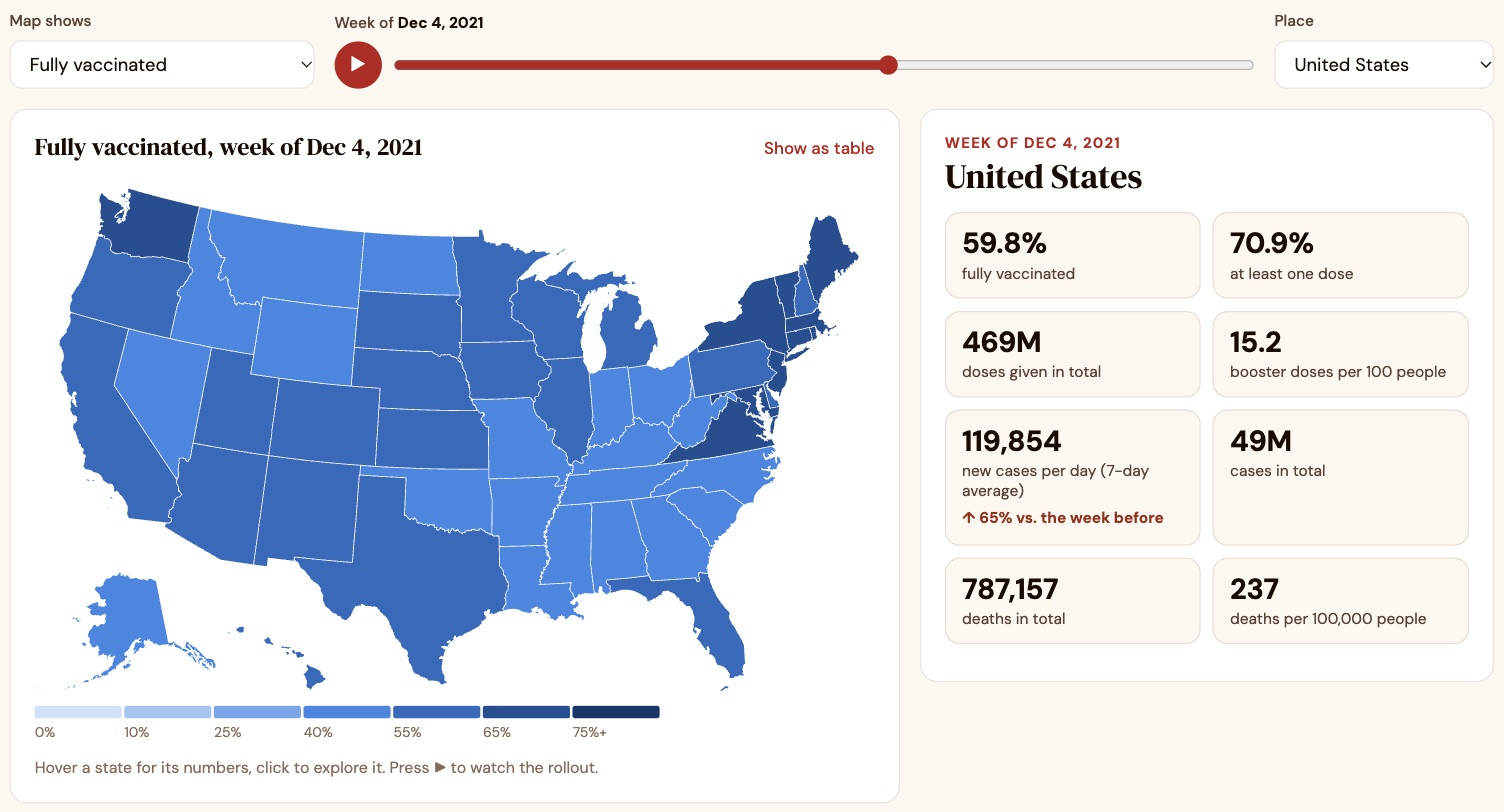
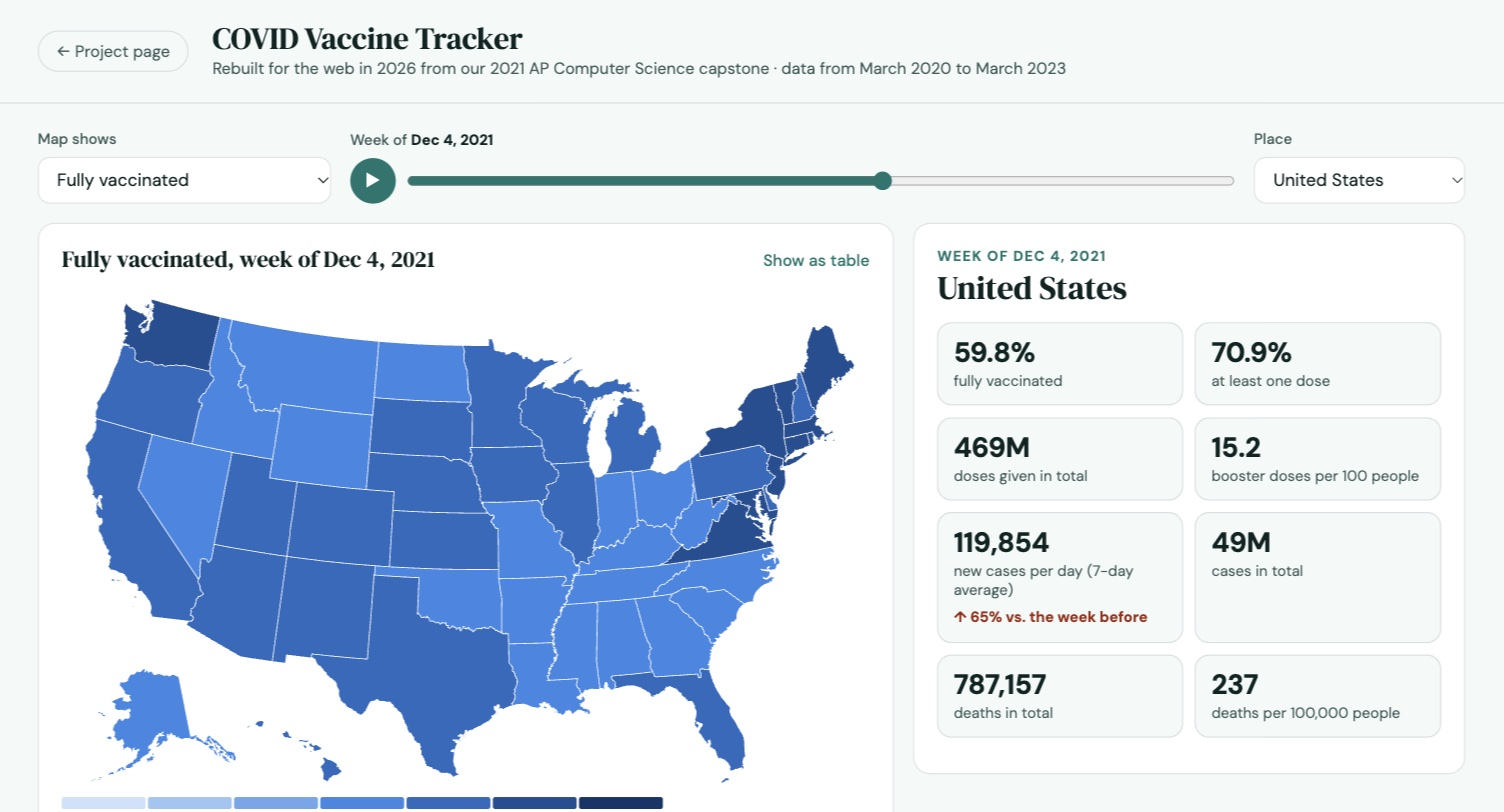
Public-health teal theme that follows the device's light or dark mode
The project page and the dashboard are dark by default and switch to a
light version when the device is set to light mode. Every color is a
token; nav, footer, bands, shadows and theme-color follow the mode.

Dashboard charts get their own validated steps per mode: the line
series use categorical slots 1 and 2 (dark steps on the dark surface),
and the map ramps are defined in CSS so low values recede toward each
mode's surface. The project page preview image is recaptured in both
modes and swaps with the device setting.

diff --git a/index.html b/index.html
@@ -3,24 +3,63 @@
 <head>
 <meta charset="UTF-8" />
 <meta name="viewport" content="width=device-width, initial-scale=1.0"/>
+<meta name="theme-color" content="#0A1716" media="(prefers-color-scheme: dark)"/>
+<meta name="theme-color" content="#F4FAF9" media="(prefers-color-scheme: light)"/>
 <title>COVID Vaccine Tracker - Roopa Srinivas</title>
 <meta name="description" content="An interactive map of COVID-19 vaccinations, cases and deaths by US state, 2020–2023. An AP Computer Science capstone from 2021, rebuilt for the web."/>
 <link href="https://fonts.googleapis.com/css2?family=DM+Serif+Display:ital@0;1&family=DM+Sans:wght@300;400;500&display=swap" rel="stylesheet"/>
 <style>
 *, *::before, *::after { box-sizing: border-box; margin: 0; padding: 0; }
+/* Public-health teal. Dark by default; light for devices set to light mode. */
 :root {
-  --bg: #FDF8F0;
-  --surface: #FFFFFF;
-  --surface2: #F5EDE0;
-  --ink: #1A0A00;
-  --ink2: #5C4033;
-  --ink3: #9A7060;
-  --accent: #B91C1C;
-  --accent-dark: #7F1212;
-  --accent-light: #FAE7E7;
-  --border: rgba(90,20,10,0.12);
+  color-scheme: dark;
+  --bg: #0A1716;
+  --surface: #10211F;
+  --surface2: #152A27;
+  --ink: #E6F4F2;
+  --ink2: #A9C6C2;
+  --ink3: #7E9C98;
+  --accent: #2EC4B6;
+  --accent-hover: #5FD8CB;
+  --on-accent: #032420;
+  --accent-soft: rgba(46,196,182,0.16);
+  --accent-line: rgba(46,196,182,0.45);
+  --second: #F4A261;
+  --border: rgba(230,244,242,0.12);
+  --nav-bg: rgba(10,23,22,0.92);
+  --band: #0F3F3A;
+  --deep: #061110;
+  --on-deep: #E6F4F2;
+  --on-deep2: rgba(230,244,242,0.62);
+  --on-deep3: rgba(230,244,242,0.4);
+  --deep-em: #5EEAD4;
+  --deep-glow: rgba(255,255,255,0.05);
+  --deep-line: rgba(255,255,255,0.1);
+  --shadow: rgba(0,0,0,0.5);
   --serif: 'DM Serif Display', Georgia, serif;
   --sans: 'DM Sans', system-ui, sans-serif;
+}
+@media (prefers-color-scheme: light) {
+  :root {
+    color-scheme: light;
+    --bg: #F4FAF9;
+    --surface: #FFFFFF;
+    --surface2: #E8F3F1;
+    --ink: #0B2522;
+    --ink2: #3D5C58;
+    --ink3: #587470;
+    --accent: #0F766E;
+    --accent-hover: #115E59;
+    --on-accent: #FFFFFF;
+    --accent-soft: #D7EEEB;
+    --accent-line: rgba(15,118,110,0.35);
+    --second: #C2410C;
+    --border: rgba(11,37,34,0.12);
+    --nav-bg: rgba(244,250,249,0.93);
+    --band: #0F766E;
+    --deep: #0B2522;
+    --shadow: rgba(11,37,34,0.28);
+  }
 }
 html { scroll-behavior: smooth; }
 body { font-family: var(--sans); background: var(--bg); color: var(--ink); font-size: 16px; line-height: 1.7; }
@@ -29,7 +68,7 @@ nav {
   position: fixed; top: 0; left: 0; right: 0; z-index: 100;
   display: flex; align-items: center; justify-content: space-between;
   padding: 1.25rem 3rem;
-  background: rgba(253,248,240,0.93);
+  background: var(--nav-bg);
   backdrop-filter: blur(8px);
   border-bottom: 1px solid var(--border);
 }
@@ -42,7 +81,7 @@ section { padding: 7rem 0; }
 .container { max-width: 900px; margin: 0 auto; padding: 0 2rem; }
 
 #hero { min-height: 100vh; display: flex; align-items: center; padding-top: 5rem; background: var(--bg); position: relative; overflow: hidden; }
-#hero::before { content: ''; position: absolute; top: -120px; right: -120px; width: 520px; height: 520px; border-radius: 50%; background: var(--accent-light); opacity: 0.6; pointer-events: none; }
+#hero::before { content: ''; position: absolute; top: -120px; right: -120px; width: 520px; height: 520px; border-radius: 50%; background: var(--accent-soft); opacity: 0.6; pointer-events: none; }
 
 .hero-eyebrow { font-size: 0.8rem; font-weight: 500; letter-spacing: 0.12em; text-transform: uppercase; color: var(--ink3); margin-bottom: 1.25rem; }
 .hero-name { font-family: var(--serif); font-size: clamp(2.5rem, 7vw, 5rem); line-height: 1.05; color: var(--ink); margin-bottom: 1.5rem; }
@@ -52,8 +91,8 @@ section { padding: 7rem 0; }
 
 
 .btn { display: inline-flex; align-items: center; gap: 0.4rem; padding: 0.7rem 1.6rem; border-radius: 100px; font-size: 0.875rem; font-weight: 500; letter-spacing: 0.04em; text-transform: uppercase; text-decoration: none; transition: all 0.2s; cursor: pointer; }
-.btn-primary { background: var(--accent); color: #fff; border: 1.5px solid var(--accent); }
-.btn-primary:hover { background: var(--accent-dark); border-color: var(--accent-dark); }
+.btn-primary { background: var(--accent); color: var(--on-accent); border: 1.5px solid var(--accent); }
+.btn-primary:hover { background: var(--accent-hover); border-color: var(--accent-hover); }
 .btn-outline { background: transparent; color: var(--ink); border: 1.5px solid var(--border); }
 .btn-outline:hover { border-color: var(--ink2); color: var(--accent); }
 
@@ -62,10 +101,10 @@ section { padding: 7rem 0; }
 .section-title em { font-style: italic; color: var(--accent); }
 
 /* STATS */
-.stats-strip { background: var(--accent); padding: 2.5rem 3rem; display: flex; justify-content: center; gap: 5rem; flex-wrap: wrap; }
+.stats-strip { background: var(--band); padding: 2.5rem 3rem; display: flex; justify-content: center; gap: 5rem; flex-wrap: wrap; }
 .stat { text-align: center; }
-.stat-num { font-family: var(--serif); font-size: 2.4rem; color: #fff; line-height: 1; margin-bottom: 0.3rem; }
-.stat-label { font-size: 0.75rem; color: rgba(255,255,255,0.75); letter-spacing: 0.06em; text-transform: uppercase; }
+.stat-num { font-family: var(--serif); font-size: 2.4rem; color: var(--on-deep); line-height: 1; margin-bottom: 0.3rem; }
+.stat-label { font-size: 0.75rem; color: var(--on-deep2); letter-spacing: 0.06em; text-transform: uppercase; }
 
 /* FEATURES */
 #features { background: var(--surface); }
@@ -77,38 +116,38 @@ section { padding: 7rem 0; }
 .feature-desc { font-size: 0.875rem; color: var(--ink2); font-weight: 300; line-height: 1.7; }
 
 /* HOW */
-#how { background: var(--accent); position: relative; overflow: hidden; }
-#how::before { content: ''; position: absolute; top: -30%; right: -10%; width: 50vw; height: 50vw; border-radius: 50%; background: rgba(255,255,255,0.06); pointer-events: none; }
-#how .section-label { color: rgba(255,255,255,0.7); }
-#how .section-title { color: #fff; }
-#how .section-title em { color: #FCA5A5; }
+#how { background: var(--band); position: relative; overflow: hidden; }
+#how::before { content: ''; position: absolute; top: -30%; right: -10%; width: 50vw; height: 50vw; border-radius: 50%; background: var(--deep-glow); pointer-events: none; }
+#how .section-label { color: var(--on-deep2); }
+#how .section-title { color: var(--on-deep); }
+#how .section-title em { color: var(--deep-em); }
 .steps { display: grid; grid-template-columns: repeat(4, 1fr); gap: 2rem; position: relative; z-index: 1; }
-.step-num { font-family: var(--serif); font-size: 3rem; color: rgba(255,255,255,0.15); line-height: 1; margin-bottom: 0.75rem; }
-.step-title { font-size: 1rem; font-weight: 500; color: #fff; margin-bottom: 0.5rem; }
-.step-desc { font-size: 0.875rem; font-weight: 300; color: rgba(255,255,255,0.65); line-height: 1.7; }
+.step-num { font-family: var(--serif); font-size: 3rem; color: var(--on-deep3); line-height: 1; margin-bottom: 0.75rem; }
+.step-title { font-size: 1rem; font-weight: 500; color: var(--on-deep); margin-bottom: 0.5rem; }
+.step-desc { font-size: 0.875rem; font-weight: 300; color: var(--on-deep2); line-height: 1.7; }
 
 /* TECH */
 #tech { background: var(--surface2); }
 .tech-grid { display: flex; flex-wrap: wrap; gap: 0.75rem; margin-top: 0.5rem; }
 .tech-pill { display: inline-flex; align-items: center; gap: 0.5rem; padding: 0.5rem 1.1rem; background: var(--surface); border: 1px solid var(--border); border-radius: 100px; font-size: 0.85rem; color: var(--ink2); transition: border-color 0.2s, background 0.2s; }
-.tech-pill:hover { border-color: var(--accent); background: var(--accent-light); color: var(--accent); }
+.tech-pill:hover { border-color: var(--accent); background: var(--accent-soft); color: var(--accent); }
 
 /* DEMO */
-#demo { background: var(--ink); position: relative; overflow: hidden; }
-#demo::before { content: ''; position: absolute; bottom: -20%; left: -10%; width: 45vw; height: 45vw; border-radius: 50%; background: rgba(185,28,28,0.15); pointer-events: none; }
+#demo { background: var(--deep); position: relative; overflow: hidden; }
+#demo::before { content: ''; position: absolute; bottom: -20%; left: -10%; width: 45vw; height: 45vw; border-radius: 50%; background: var(--accent-soft); pointer-events: none; }
 .demo-inner { position: relative; z-index: 1; }
-#demo .section-label { color: #FCA5A5; }
-#demo .section-title { color: #fff; }
-#demo .section-title em { color: #FCA5A5; }
-#demo .section-sub { font-size: 0.95rem; font-weight: 300; color: rgba(255,255,255,0.55); max-width: 520px; line-height: 1.8; margin-bottom: 2.5rem; }
-.demo-link { display: inline-block; background: var(--accent); color: #fff; padding: 0.7rem 1.6rem; border-radius: 100px; text-decoration: none; font-size: 0.875rem; font-weight: 500; letter-spacing: 0.04em; text-transform: uppercase; transition: background 0.2s; margin-bottom: 3rem; }
-.demo-link:hover { background: var(--accent-dark); }
+#demo .section-label { color: var(--deep-em); }
+#demo .section-title { color: var(--on-deep); }
+#demo .section-title em { color: var(--deep-em); }
+#demo .section-sub { font-size: 0.95rem; font-weight: 300; color: var(--on-deep2); max-width: 520px; line-height: 1.8; margin-bottom: 2.5rem; }
+.demo-link { display: inline-block; background: var(--accent); color: var(--on-accent); padding: 0.7rem 1.6rem; border-radius: 100px; text-decoration: none; font-size: 0.875rem; font-weight: 500; letter-spacing: 0.04em; text-transform: uppercase; transition: background 0.2s; margin-bottom: 3rem; }
+.demo-link:hover { background: var(--accent-hover); }
 .demo-steps { display: grid; grid-template-columns: repeat(auto-fit, minmax(200px, 1fr)); gap: 1.2rem; }
-.demo-step { background: rgba(255,255,255,0.05); border: 1px solid rgba(255,255,255,0.1); border-radius: 2px; padding: 1.4rem; transition: border-color 0.2s; }
-.demo-step:hover { border-color: rgba(185,28,28,0.5); }
-.demo-step-num { background: var(--accent); color: #fff; width: 26px; height: 26px; border-radius: 50%; display: flex; align-items: center; justify-content: center; font-size: 0.75rem; font-weight: 500; margin-bottom: 0.8rem; }
-.demo-step h4 { font-size: 0.9rem; font-weight: 500; color: #fff; margin-bottom: 0.35rem; }
-.demo-step p { font-size: 0.82rem; color: rgba(255,255,255,0.55); line-height: 1.6; font-weight: 300; }
+.demo-step { background: var(--deep-glow); border: 1px solid var(--deep-line); border-radius: 2px; padding: 1.4rem; transition: border-color 0.2s; }
+.demo-step:hover { border-color: var(--deep-em); }
+.demo-step-num { background: var(--accent); color: var(--on-accent); width: 26px; height: 26px; border-radius: 50%; display: flex; align-items: center; justify-content: center; font-size: 0.75rem; font-weight: 500; margin-bottom: 0.8rem; }
+.demo-step h4 { font-size: 0.9rem; font-weight: 500; color: var(--on-deep); margin-bottom: 0.35rem; }
+.demo-step p { font-size: 0.82rem; color: var(--on-deep2); line-height: 1.6; font-weight: 300; }
 
 /* GALLERY */
 #gallery { background: var(--surface); }
@@ -124,9 +163,9 @@ section { padding: 7rem 0; }
 #cta p { color: var(--ink2); max-width: 480px; margin: 0 auto 2.5rem; font-weight: 300; line-height: 1.8; }
 .cta-buttons { display: flex; justify-content: center; gap: 1rem; flex-wrap: wrap; }
 
-footer { background: var(--ink); border-top: 1px solid rgba(255,255,255,0.06); text-align: center; padding: 1.5rem; font-size: 0.8rem; color: rgba(255,255,255,0.35); }
-footer a { color: rgba(255,255,255,0.5); text-decoration: none; }
-footer a:hover { color: #FCA5A5; }
+footer { background: var(--deep); border-top: 1px solid var(--deep-line); text-align: center; padding: 1.5rem; font-size: 0.8rem; color: var(--on-deep2); }
+footer a { color: var(--on-deep); text-decoration: none; }
+footer a:hover { color: var(--deep-em); }
 
 @media (max-width: 700px) {
   nav { padding: 1rem 1.5rem; }
@@ -151,15 +190,15 @@ footer a:hover { color: #FCA5A5; }
   .nav-links { display: none; }
 }
 /* Rebuild additions: dashboard preview, then-and-now, team. */
-.hero-shot { display: block; margin-top: 3rem; border-radius: 14px; overflow: hidden; border: 1px solid var(--border); box-shadow: 0 30px 60px -24px rgba(90,20,10,0.35); transition: transform 0.25s; }
+.hero-shot { display: block; margin-top: 3rem; border-radius: 14px; overflow: hidden; border: 1px solid var(--border); box-shadow: 0 30px 60px -24px var(--shadow); transition: transform 0.25s; }
 .hero-shot:hover { transform: translateY(-3px); }
 .hero-shot img { display: block; width: 100%; height: auto; }
 .section-sub { color: var(--ink2); max-width: 620px; margin: -1.5rem 0 2rem; }
-code { font-size: 0.85em; background: var(--surface2); padding: 0.05rem 0.35rem; border-radius: 4px; }
+code { font-size: 0.85em; color: var(--ink); background: var(--surface2); padding: 0.05rem 0.35rem; border-radius: 4px; }
 #story { background: var(--surface); }
 .then-now { display: grid; grid-template-columns: 1fr 1fr; gap: 1.25rem; }
 .era { border: 1px solid var(--border); border-radius: 12px; padding: 1.5rem; background: var(--bg); }
-.era.now { border-color: rgba(185,28,28,0.35); background: var(--accent-light); }
+.era.now { border-color: var(--accent-line); background: var(--accent-soft); }
 .era-label { font-size: 0.75rem; font-weight: 500; letter-spacing: 0.1em; text-transform: uppercase; color: var(--accent); margin-bottom: 0.75rem; }
 .era ul { padding-left: 1.1rem; display: grid; gap: 0.45rem; font-size: 0.93rem; color: var(--ink2); }
 .era strong { color: var(--ink); font-weight: 500; }
@@ -198,7 +237,10 @@ code { font-size: 0.85em; background: var(--surface2); padding: 0.05rem 0.35rem;
       <a class="btn btn-outline" href="https://github.com/roopa-srinivas/COVIDVaccineTracker" target="_blank" rel="noopener">View on GitHub</a>
     </div>
     <a class="hero-shot" href="dashboard/" aria-label="Open the dashboard">
-      <img src="dashboard-preview.jpg" width="1504" height="812" alt="The dashboard: a US map colored by percent fully vaccinated in December 2021, a timeline slider, and US totals such as 59.8% fully vaccinated and 469 million doses given."/>
+      <picture>
+        <source srcset="dashboard-preview.jpg" media="(prefers-color-scheme: light)"/>
+        <img src="dashboard-preview-dark.jpg" width="1504" height="812" alt="The dashboard: a US map colored by percent fully vaccinated in December 2021, a timeline slider, and US totals such as 59.8% fully vaccinated and 469 million doses given."/>
+      </picture>
     </a>
   </div>
 </section>

diff --git a/dashboard/style.css b/dashboard/style.css
@@ -1,32 +1,71 @@
-/* Matches the project page: cream paper, deep red accent, DM Serif headings.
+/* Matches the project page: public-health teal, DM Serif headings.
    Numbers stay in the sans face. */
 *, *::before, *::after { box-sizing: border-box; margin: 0; padding: 0; }
+/* Public-health teal. Dark by default; light for devices set to light mode.
+   Chart colors are validated per mode (dataviz palette checks), not inverted. */
 :root {
-  color-scheme: light;
-  --bg: #FDF8F0;
-  --surface: #FFFFFF;
-  --surface2: #F5EDE0;
-  --ink: #1A0A00;
-  --ink2: #5C4033;
-  --ink3: #8A6A5A;
-  --accent: #B91C1C;
-  --border: rgba(90,20,10,0.12);
-  --grid: #EEE6DA;
-  --axis: #C9BBAA;
-  /* chart series (validated: categorical slots 1 and 2) */
-  --series-1: #2a78d6;
-  --series-2: #eb6834;
-  --up: #9c2a12;
-  --down: #006300;
+  color-scheme: dark;
+  --bg: #0A1716;
+  --surface: #10211F;
+  --surface2: #152A27;
+  --ink: #E6F4F2;
+  --ink2: #A9C6C2;
+  --ink3: #7E9C98;
+  --accent: #2EC4B6;
+  --accent-hover: #5FD8CB;
+  --on-accent: #032420;
+  --border: rgba(230,244,242,0.12);
+  --top-bg: rgba(10,23,22,0.95);
+  --grid: #1B3330;
+  --axis: #2E4A46;
+  --shadow: rgba(0,0,0,0.5);
+  --map-edge: #10211F;
+  --map-nodata: #22322F;
+  /* chart series: categorical slots 1 and 2, dark steps */
+  --series-1: #3987e5;
+  --series-2: #d95926;
+  --up: #FF8A65;
+  --down: #6FCF7F;
+  /* sequential ramps, low values recede toward the dark surface */
+  --vax-1: #0d366b; --vax-2: #184f95; --vax-3: #256abf; --vax-4: #3987e5; --vax-5: #6da7ec; --vax-6: #9ec5f4; --vax-7: #cde2fb;
+  --burden-1: #6e2c0d; --burden-2: #9c4219; --burden-3: #c95a28; --burden-4: #e57746; --burden-5: #f09d74; --burden-6: #f6c2a5; --burden-7: #fbe3d6;
   --serif: 'DM Serif Display', Georgia, serif;
   --sans: 'DM Sans', system-ui, -apple-system, 'Segoe UI', sans-serif;
+}
+@media (prefers-color-scheme: light) {
+  :root {
+    color-scheme: light;
+    --bg: #F4FAF9;
+    --surface: #FFFFFF;
+    --surface2: #E8F3F1;
+    --ink: #0B2522;
+    --ink2: #3D5C58;
+    --ink3: #587470;
+    --accent: #0F766E;
+    --accent-hover: #115E59;
+    --on-accent: #FFFFFF;
+    --border: rgba(11,37,34,0.12);
+    --top-bg: rgba(244,250,249,0.95);
+    --grid: #E3EEEC;
+    --axis: #B9CCC9;
+    --shadow: rgba(11,37,34,0.14);
+    --map-edge: #FFFFFF;
+    --map-nodata: #E6EEEC;
+    --series-1: #2a78d6;
+    --series-2: #eb6834;
+    --up: #9c2a12;
+    --down: #006300;
+    /* low values recede toward the light surface */
+    --vax-1: #cde2fb; --vax-2: #9ec5f4; --vax-3: #6da7ec; --vax-4: #3987e5; --vax-5: #256abf; --vax-6: #184f95; --vax-7: #0d366b;
+    --burden-1: #fbe3d6; --burden-2: #f6c2a5; --burden-3: #f09d74; --burden-4: #e57746; --burden-5: #c95a28; --burden-6: #9c4219; --burden-7: #6e2c0d;
+  }
 }
 html { -webkit-text-size-adjust: 100%; }
 body { font-family: var(--sans); background: var(--bg); color: var(--ink); font-size: 15px; line-height: 1.55; overflow-x: hidden; }
 a { color: var(--accent); }
 :focus-visible { outline: 2px solid var(--series-1); outline-offset: 2px; border-radius: 4px; }
 
-.top { border-bottom: 1px solid var(--border); background: rgba(253,248,240,0.95); }
+.top { border-bottom: 1px solid var(--border); background: var(--top-bg); }
 .top-inner { max-width: 1240px; margin: 0 auto; padding: 1.1rem 1.5rem; display: flex; align-items: center; gap: 1.25rem; }
 .back { font-size: 0.85rem; color: var(--ink2); text-decoration: none; border: 1px solid var(--border); border-radius: 999px; padding: 0.35rem 0.9rem; white-space: nowrap; }
 .back:hover { color: var(--accent); border-color: var(--accent); }
@@ -43,8 +82,8 @@ main { max-width: 1240px; margin: 0 auto; padding: 1.25rem 1.5rem 3rem; }
 select { font: inherit; font-size: 0.92rem; color: var(--ink); background: var(--surface); border: 1px solid var(--border); border-radius: 10px; padding: 0.5rem 0.7rem; max-width: 100%; }
 .timeline { display: flex; align-items: center; gap: 0.6rem; }
 .timeline input { flex: 1; accent-color: var(--accent); min-width: 0; }
-.play { width: 38px; height: 38px; flex-shrink: 0; border-radius: 50%; border: none; background: var(--accent); color: #fff; font-size: 0.9rem; cursor: pointer; }
-.play:hover { background: #991616; }
+.play { width: 38px; height: 38px; flex-shrink: 0; border-radius: 50%; border: none; background: var(--accent); color: var(--on-accent); font-size: 0.9rem; cursor: pointer; }
+.play:hover { background: var(--accent-hover); }
 
 .grid { display: grid; grid-template-columns: minmax(0, 1.55fr) minmax(0, 1fr); gap: 1rem; margin-bottom: 1rem; align-items: start; }
 .charts { display: grid; grid-template-columns: 1fr 1fr; gap: 1rem; margin-bottom: 1rem; }
@@ -57,10 +96,10 @@ select { font: inherit; font-size: 0.92rem; color: var(--ink); background: var(-
 
 .map-wrap { position: relative; }
 #map { width: 100%; height: auto; display: block; }
-#map .state { stroke: #fff; stroke-width: 1; cursor: pointer; transition: opacity 0.15s; }
+#map .state { stroke: var(--map-edge); stroke-width: 1; cursor: pointer; transition: opacity 0.15s; }
 #map .state:hover, #map .state:focus { stroke: var(--ink); stroke-width: 1.5; outline: none; }
 #map .state.selected { stroke: var(--ink); stroke-width: 2.5; }
-#map .state.nodata { fill: #EFE9E0; }
+#map .state.nodata { fill: var(--map-nodata); }
 .legend { display: flex; align-items: flex-end; gap: 2px; margin-top: 0.5rem; flex-wrap: wrap; }
 .legend .swatch { display: flex; flex-direction: column; gap: 3px; flex: 1; min-width: 34px; max-width: 70px; }
 .legend .swatch span:first-child { height: 10px; border-radius: 2px; }
@@ -119,7 +158,7 @@ td:last-child, th:last-child { text-align: right; font-variant-numeric: tabular-
 .sources { font-size: 0.8rem; color: var(--ink2); display: grid; gap: 0.5rem; max-width: 900px; }
 .sources code { font-size: 0.78rem; background: var(--surface2); padding: 0.05rem 0.3rem; border-radius: 4px; }
 
-.tooltip { position: fixed; z-index: 50; pointer-events: none; background: var(--surface); border: 1px solid var(--border); border-radius: 10px; box-shadow: 0 6px 20px rgba(26,10,0,0.14); padding: 0.55rem 0.7rem; font-size: 0.8rem; min-width: 150px; max-width: 240px; }
+.tooltip { position: fixed; z-index: 50; pointer-events: none; background: var(--surface); border: 1px solid var(--border); border-radius: 10px; box-shadow: 0 6px 20px var(--shadow); padding: 0.55rem 0.7rem; font-size: 0.8rem; min-width: 150px; max-width: 240px; }
 .tooltip .tt-title { font-weight: 700; margin-bottom: 0.25rem; }
 .tooltip .tt-row { display: flex; align-items: center; gap: 0.45rem; }
 .tooltip .tt-row b { font-size: 0.95rem; font-variant-numeric: tabular-nums; }

diff --git a/dashboard/app.js b/dashboard/app.js
@@ -1,8 +1,11 @@
 // COVID Vaccine Tracker, web edition. Reads the weekly snapshot built by
 // scripts/build_data.py and the US state shapes from us-atlas.
 
-const BLUES = ['#cde2fb', '#9ec5f4', '#6da7ec', '#3987e5', '#256abf', '#184f95', '#0d366b'];
-const ORANGES = ['#fbe3d6', '#f6c2a5', '#f09d74', '#e57746', '#c95a28', '#9c4219', '#6e2c0d'];
+// Seven steps each, lowest to highest. The hex values live in style.css so
+// light and dark mode each get their own validated steps.
+const steps = (name) => Array.from({ length: 7 }, (_, i) => `var(--${name}-${i + 1})`);
+const BLUES = steps('vax');
+const ORANGES = steps('burden');
 
 // Fixed thresholds (not quantiles) so colors mean the same thing in every week
 // of the timeline.
@@ -101,7 +104,7 @@ function drawMap() {
         .on('click', (_, f) => select(f.id))
         .on('keydown', (event, f) => { if (event.key === 'Enter' || event.key === ' ') { event.preventDefault(); select(f.id); } })
     )
-    .attr('fill', (f) => color(state.metric, value(f.id, state.metric, state.week)) ?? '#EFE9E0')
+    .attr('fill', (f) => color(state.metric, value(f.id, state.metric, state.week)) ?? 'var(--map-nodata)')
     .classed('nodata', (f) => value(f.id, state.metric, state.week) == null)
     .classed('selected', (f) => f.id === state.region)
     .attr('aria-label', (f) => `${data.regions[f.id].name}: ${display(state.metric, value(f.id, state.metric, state.week))}`);

diff --git a/dashboard/index.html b/dashboard/index.html
@@ -3,6 +3,8 @@
 <head>
 <meta charset="UTF-8" />
 <meta name="viewport" content="width=device-width, initial-scale=1.0"/>
+<meta name="theme-color" content="#0A1716" media="(prefers-color-scheme: dark)"/>
+<meta name="theme-color" content="#F4FAF9" media="(prefers-color-scheme: light)"/>
 <title>COVID Vaccine Tracker - Dashboard</title>
 <meta name="description" content="Explore COVID-19 vaccinations, cases and deaths by US state, week by week from 2020 to 2023. Rebuilt for the web from a 2021 AP Computer Science capstone."/>
 <link rel="preconnect" href="https://fonts.googleapis.com"/>
